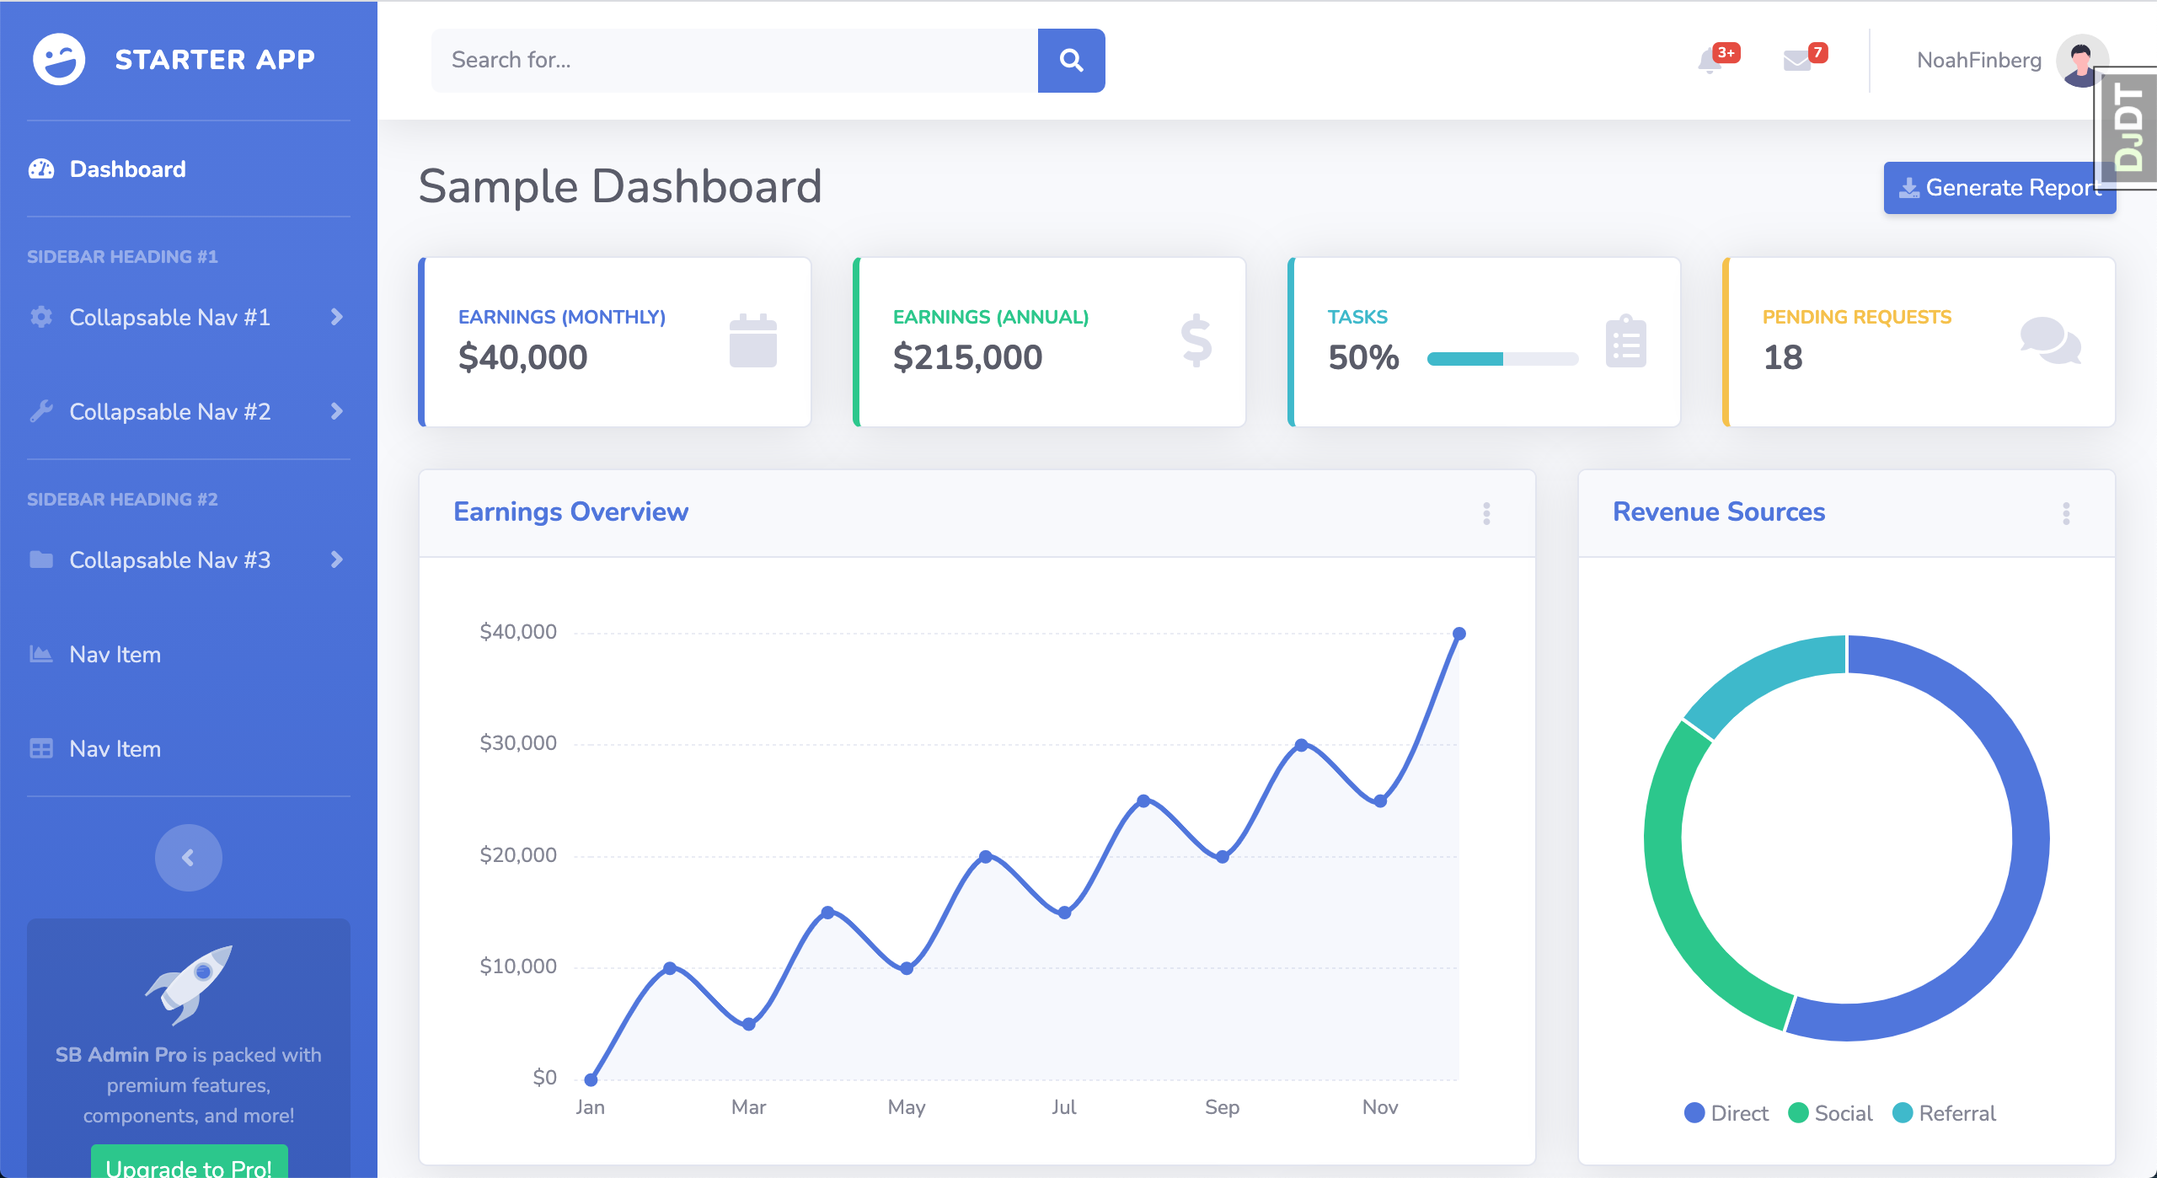
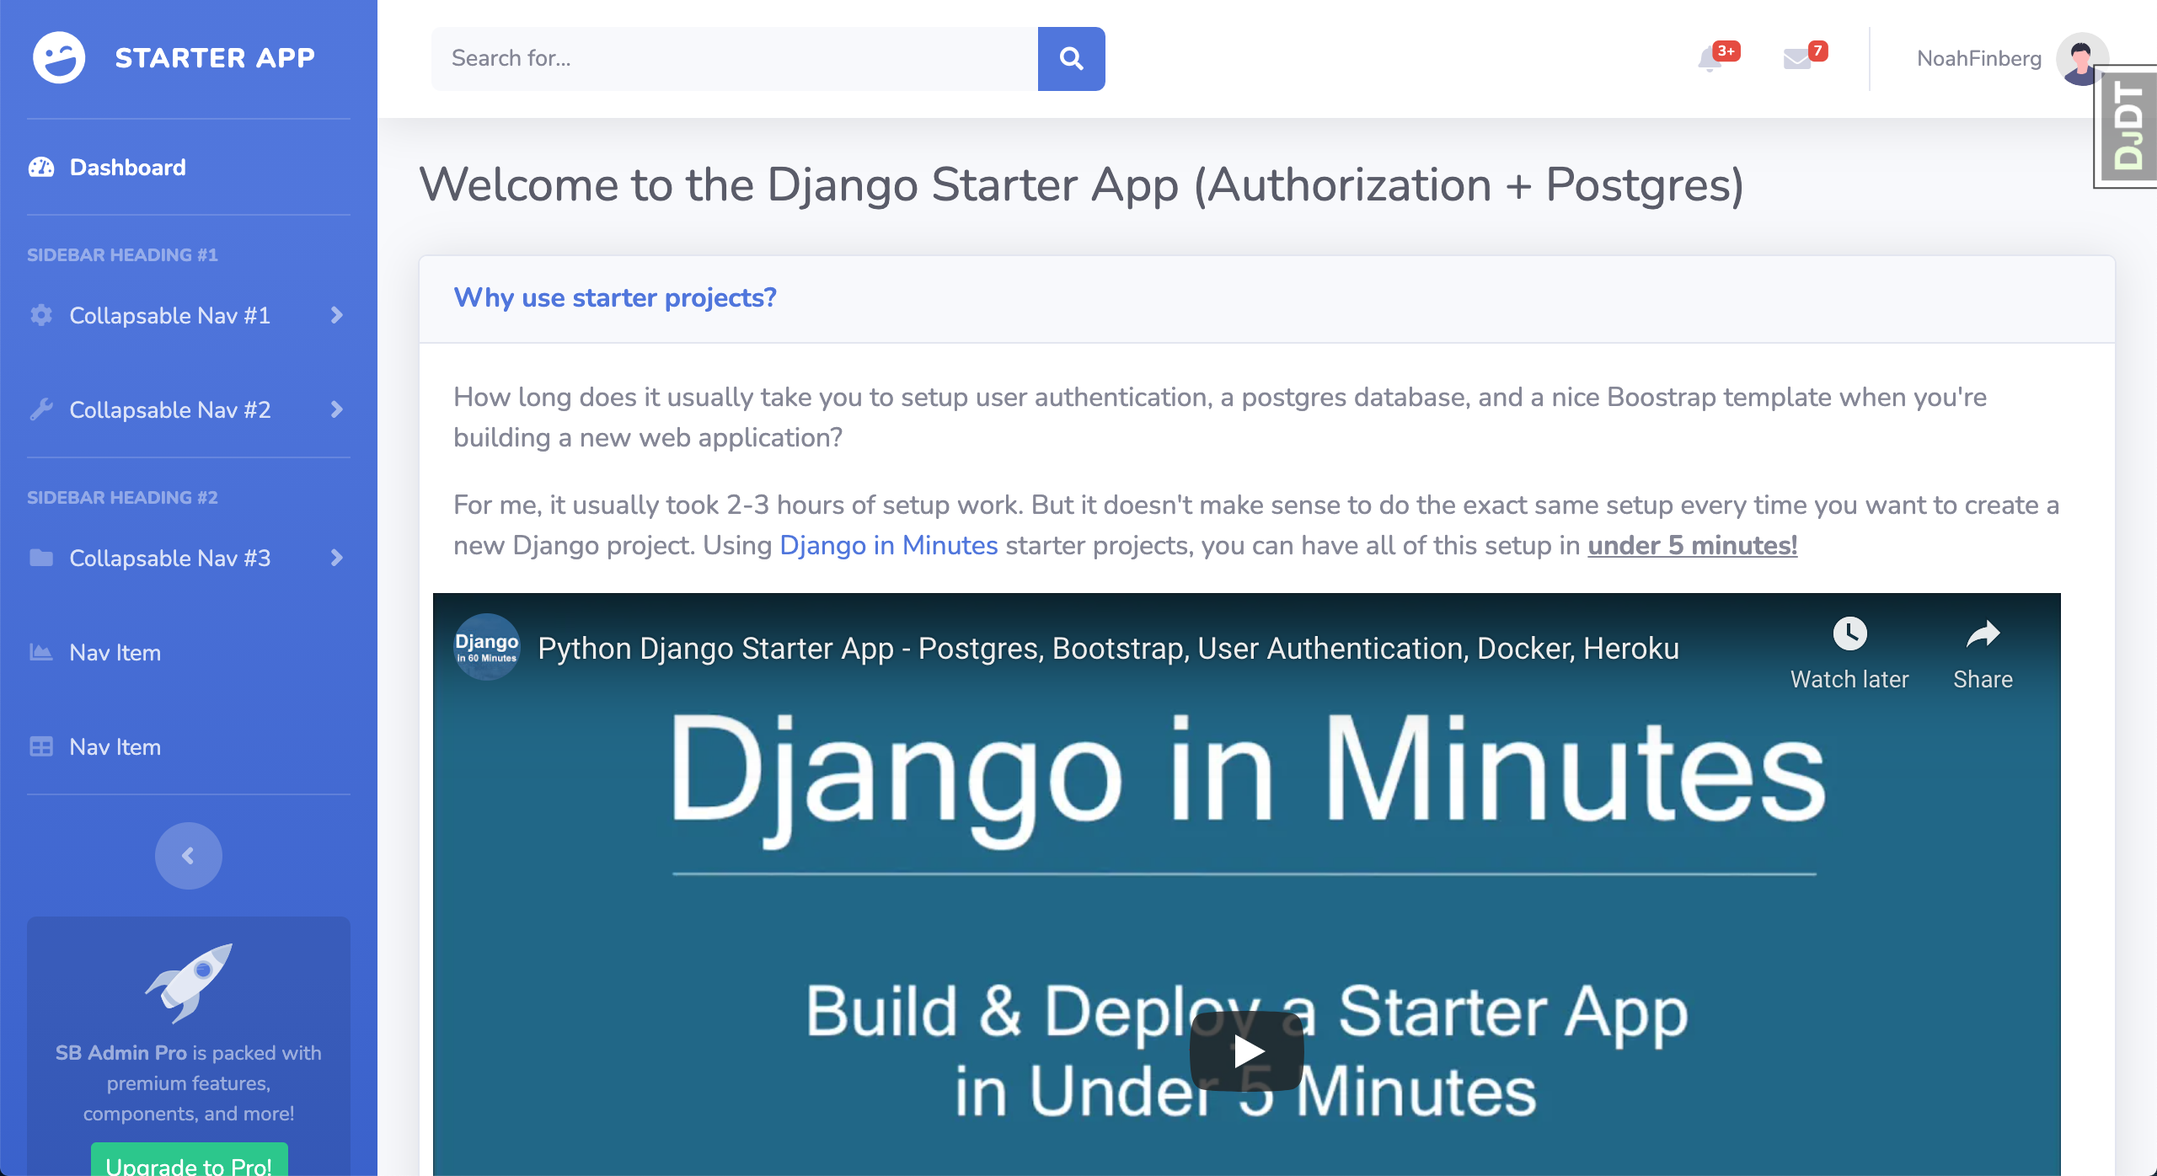
add some explanation  info to the dashboard page.

diff --git a/user/templates/user/index.html b/user/templates/user/index.html
@@ -6,323 +6,42 @@
 
     <!-- Page Heading -->
     <div class="d-sm-flex align-items-center justify-content-between mb-4">
-        <h1 class="h3 mb-0 text-gray-800">Sample Dashboard</h1>
-        <a href="#" class="d-none d-sm-inline-block btn btn-sm btn-primary shadow-sm"><i
-                class="fas fa-download fa-sm text-white-50"></i> Generate Report</a>
+        <h1 class="h3 mb-0 text-gray-800">Welcome to the Django Starter App (Authorization + Postgres)</h1>
     </div>
 
-    <!-- Content Row -->
     <div class="row">
-
-        <!-- Earnings (Monthly) Card Example -->
-        <div class="col-xl-3 col-md-6 mb-4">
-            <div class="card border-left-primary shadow h-100 py-2">
-                <div class="card-body">
-                    <div class="row no-gutters align-items-center">
-                        <div class="col mr-2">
-                            <div class="text-xs font-weight-bold text-primary text-uppercase mb-1">
-                                Earnings (Monthly)</div>
-                            <div class="h5 mb-0 font-weight-bold text-gray-800">$40,000</div>
-                        </div>
-                        <div class="col-auto">
-                            <i class="fas fa-calendar fa-2x text-gray-300"></i>
-                        </div>
-                    </div>
-                </div>
-            </div>
-        </div>
-
-        <!-- Earnings (Monthly) Card Example -->
-        <div class="col-xl-3 col-md-6 mb-4">
-            <div class="card border-left-success shadow h-100 py-2">
-                <div class="card-body">
-                    <div class="row no-gutters align-items-center">
-                        <div class="col mr-2">
-                            <div class="text-xs font-weight-bold text-success text-uppercase mb-1">
-                                Earnings (Annual)</div>
-                            <div class="h5 mb-0 font-weight-bold text-gray-800">$215,000</div>
-                        </div>
-                        <div class="col-auto">
-                            <i class="fas fa-dollar-sign fa-2x text-gray-300"></i>
-                        </div>
-                    </div>
-                </div>
-            </div>
-        </div>
-
-        <!-- Earnings (Monthly) Card Example -->
-        <div class="col-xl-3 col-md-6 mb-4">
-            <div class="card border-left-info shadow h-100 py-2">
-                <div class="card-body">
-                    <div class="row no-gutters align-items-center">
-                        <div class="col mr-2">
-                            <div class="text-xs font-weight-bold text-info text-uppercase mb-1">Tasks
-                            </div>
-                            <div class="row no-gutters align-items-center">
-                                <div class="col-auto">
-                                    <div class="h5 mb-0 mr-3 font-weight-bold text-gray-800">50%</div>
-                                </div>
-                                <div class="col">
-                                    <div class="progress progress-sm mr-2">
-                                        <div class="progress-bar bg-info" role="progressbar"
-                                            style="width: 50%" aria-valuenow="50" aria-valuemin="0"
-                                            aria-valuemax="100"></div>
-                                    </div>
-                                </div>
-                            </div>
-                        </div>
-                        <div class="col-auto">
-                            <i class="fas fa-clipboard-list fa-2x text-gray-300"></i>
-                        </div>
-                    </div>
-                </div>
-            </div>
-        </div>
-
-        <!-- Pending Requests Card Example -->
-        <div class="col-xl-3 col-md-6 mb-4">
-            <div class="card border-left-warning shadow h-100 py-2">
-                <div class="card-body">
-                    <div class="row no-gutters align-items-center">
-                        <div class="col mr-2">
-                            <div class="text-xs font-weight-bold text-warning text-uppercase mb-1">
-                                Pending Requests</div>
-                            <div class="h5 mb-0 font-weight-bold text-gray-800">18</div>
-                        </div>
-                        <div class="col-auto">
-                            <i class="fas fa-comments fa-2x text-gray-300"></i>
-                        </div>
-                    </div>
-                </div>
-            </div>
-        </div>
-    </div>
-
-    <!-- Content Row -->
-
-    <div class="row">
-
-        <!-- Area Chart -->
-        <div class="col-xl-8 col-lg-7">
-            <div class="card shadow mb-4">
-                <!-- Card Header - Dropdown -->
-                <div
-                    class="card-header py-3 d-flex flex-row align-items-center justify-content-between">
-                    <h6 class="m-0 font-weight-bold text-primary">Earnings Overview</h6>
-                    <div class="dropdown no-arrow">
-                        <a class="dropdown-toggle" href="#" role="button" id="dropdownMenuLink"
-                            data-toggle="dropdown" aria-haspopup="true" aria-expanded="false">
-                            <i class="fas fa-ellipsis-v fa-sm fa-fw text-gray-400"></i>
-                        </a>
-                        <div class="dropdown-menu dropdown-menu-right shadow animated--fade-in"
-                            aria-labelledby="dropdownMenuLink">
-                            <div class="dropdown-header">Dropdown Header:</div>
-                            <a class="dropdown-item" href="#">Action</a>
-                            <a class="dropdown-item" href="#">Another action</a>
-                            <div class="dropdown-divider"></div>
-                            <a class="dropdown-item" href="#">Something else here</a>
-                        </div>
-                    </div>
-                </div>
-                <!-- Card Body -->
-                <div class="card-body">
-                    <div class="chart-area">
-                        <canvas id="myAreaChart"></canvas>
-                    </div>
-                </div>
-            </div>
-        </div>
-
-        <!-- Pie Chart -->
-        <div class="col-xl-4 col-lg-5">
-            <div class="card shadow mb-4">
-                <!-- Card Header - Dropdown -->
-                <div
-                    class="card-header py-3 d-flex flex-row align-items-center justify-content-between">
-                    <h6 class="m-0 font-weight-bold text-primary">Revenue Sources</h6>
-                    <div class="dropdown no-arrow">
-                        <a class="dropdown-toggle" href="#" role="button" id="dropdownMenuLink"
-                            data-toggle="dropdown" aria-haspopup="true" aria-expanded="false">
-                            <i class="fas fa-ellipsis-v fa-sm fa-fw text-gray-400"></i>
-                        </a>
-                        <div class="dropdown-menu dropdown-menu-right shadow animated--fade-in"
-                            aria-labelledby="dropdownMenuLink">
-                            <div class="dropdown-header">Dropdown Header:</div>
-                            <a class="dropdown-item" href="#">Action</a>
-                            <a class="dropdown-item" href="#">Another action</a>
-                            <div class="dropdown-divider"></div>
-                            <a class="dropdown-item" href="#">Something else here</a>
-                        </div>
-                    </div>
-                </div>
-                <!-- Card Body -->
-                <div class="card-body">
-                    <div class="chart-pie pt-4 pb-2">
-                        <canvas id="myPieChart"></canvas>
-                    </div>
-                    <div class="mt-4 text-center small">
-                        <span class="mr-2">
-                            <i class="fas fa-circle text-primary"></i> Direct
-                        </span>
-                        <span class="mr-2">
-                            <i class="fas fa-circle text-success"></i> Social
-                        </span>
-                        <span class="mr-2">
-                            <i class="fas fa-circle text-info"></i> Referral
-                        </span>
-                    </div>
-                </div>
-            </div>
-        </div>
-    </div>
-
-    <!-- Content Row -->
-    <div class="row">
-
-        <!-- Content Column -->
-        <div class="col-lg-6 mb-4">
-
-            <!-- Project Card Example -->
-            <div class="card shadow mb-4">
-                <div class="card-header py-3">
-                    <h6 class="m-0 font-weight-bold text-primary">Projects</h6>
-                </div>
-                <div class="card-body">
-                    <h4 class="small font-weight-bold">Server Migration <span
-                            class="float-right">20%</span></h4>
-                    <div class="progress mb-4">
-                        <div class="progress-bar bg-danger" role="progressbar" style="width: 20%"
-                            aria-valuenow="20" aria-valuemin="0" aria-valuemax="100"></div>
-                    </div>
-                    <h4 class="small font-weight-bold">Sales Tracking <span
-                            class="float-right">40%</span></h4>
-                    <div class="progress mb-4">
-                        <div class="progress-bar bg-warning" role="progressbar" style="width: 40%"
-                            aria-valuenow="40" aria-valuemin="0" aria-valuemax="100"></div>
-                    </div>
-                    <h4 class="small font-weight-bold">Customer Database <span
-                            class="float-right">60%</span></h4>
-                    <div class="progress mb-4">
-                        <div class="progress-bar" role="progressbar" style="width: 60%"
-                            aria-valuenow="60" aria-valuemin="0" aria-valuemax="100"></div>
-                    </div>
-                    <h4 class="small font-weight-bold">Payout Details <span
-                            class="float-right">80%</span></h4>
-                    <div class="progress mb-4">
-                        <div class="progress-bar bg-info" role="progressbar" style="width: 80%"
-                            aria-valuenow="80" aria-valuemin="0" aria-valuemax="100"></div>
-                    </div>
-                    <h4 class="small font-weight-bold">Account Setup <span
-                            class="float-right">Complete!</span></h4>
-                    <div class="progress">
-                        <div class="progress-bar bg-success" role="progressbar" style="width: 100%"
-                            aria-valuenow="100" aria-valuemin="0" aria-valuemax="100"></div>
-                    </div>
-                </div>
-            </div>
-
-            <!-- Color System -->
-            <div class="row">
-                <div class="col-lg-6 mb-4">
-                    <div class="card bg-primary text-white shadow">
-                        <div class="card-body">
-                            Primary
-                            <div class="text-white-50 small">#4e73df</div>
-                        </div>
-                    </div>
-                </div>
-                <div class="col-lg-6 mb-4">
-                    <div class="card bg-success text-white shadow">
-                        <div class="card-body">
-                            Success
-                            <div class="text-white-50 small">#1cc88a</div>
-                        </div>
-                    </div>
-                </div>
-                <div class="col-lg-6 mb-4">
-                    <div class="card bg-info text-white shadow">
-                        <div class="card-body">
-                            Info
-                            <div class="text-white-50 small">#36b9cc</div>
-                        </div>
-                    </div>
-                </div>
-                <div class="col-lg-6 mb-4">
-                    <div class="card bg-warning text-white shadow">
-                        <div class="card-body">
-                            Warning
-                            <div class="text-white-50 small">#f6c23e</div>
-                        </div>
-                    </div>
-                </div>
-                <div class="col-lg-6 mb-4">
-                    <div class="card bg-danger text-white shadow">
-                        <div class="card-body">
-                            Danger
-                            <div class="text-white-50 small">#e74a3b</div>
-                        </div>
-                    </div>
-                </div>
-                <div class="col-lg-6 mb-4">
-                    <div class="card bg-secondary text-white shadow">
-                        <div class="card-body">
-                            Secondary
-                            <div class="text-white-50 small">#858796</div>
-                        </div>
-                    </div>
-                </div>
-                <div class="col-lg-6 mb-4">
-                    <div class="card bg-light text-black shadow">
-                        <div class="card-body">
-                            Light
-                            <div class="text-black-50 small">#f8f9fc</div>
-                        </div>
-                    </div>
-                </div>
-                <div class="col-lg-6 mb-4">
-                    <div class="card bg-dark text-white shadow">
-                        <div class="card-body">
-                            Dark
-                            <div class="text-white-50 small">#5a5c69</div>
-                        </div>
-                    </div>
-                </div>
-            </div>
-
-        </div>
-
-        <div class="col-lg-6 mb-4">
+        <div class="col-lg-12 mb-4">
 
             <!-- Illustrations -->
             <div class="card shadow mb-4">
                 <div class="card-header py-3">
-                    <h6 class="m-0 font-weight-bold text-primary">Illustrations</h6>
+                    <h6 class="m-0 font-weight-bold text-primary">Why use starter projects?</h6>
                 </div>
                 <div class="card-body">
-                    <div class="text-center">
-                        <img class="img-fluid px-3 px-sm-4 mt-3 mb-4" style="width: 25rem;"
-                            src="{% static 'img/undraw_posting_photo.svg' %}" alt="">
+                    <p>How long does it usually take you to setup user authentication, a postgres database, and a nice Boostrap template when you're building a new web application?</p>
+                    <p>
+                        For me, it usually took 2-3 hours of setup work. But it doesn't make sense to do the exact same setup every time you want to create a new Django project. Using <a href="https://www.youtube.com/channel/UCeXWf8ttB2Q8-xTmEoTDkZg">Django in Minutes</a> starter projects, you can have all of this setup in <strong><u>under 5 minutes!</u></strong>
+                    </p>
+                    
+                    <!-- Embed Youtube Video -->
+                    <div class="iframe-container row">
+                        <iframe class="responsive-iframe" width="560" height="315" src="https://www.youtube.com/embed/4seIp_kaaWM" frameborder="0" allow="accelerometer; autoplay; clipboard-write; encrypted-media; gyroscope; picture-in-picture" allowfullscreen></iframe>
                     </div>
-                    <p>Add some quality, svg illustrations to your project courtesy of <a
-                            target="_blank" rel="nofollow" href="https://undraw.co/">unDraw</a>, a
-                        constantly updated collection of beautiful svg images that you can use
-                        completely free and without attribution!</p>
-                    <a target="_blank" rel="nofollow" href="https://undraw.co/">Browse Illustrations on
-                        unDraw &rarr;</a>
+
                 </div>
             </div>
 
             <!-- Approach -->
             <div class="card shadow mb-4">
                 <div class="card-header py-3">
-                    <h6 class="m-0 font-weight-bold text-primary">Development Approach</h6>
+                    <h6 class="m-0 font-weight-bold text-primary">If this helps you, please show us some love :)</h6>
                 </div>
                 <div class="card-body">
-                    <p>SB Admin 2 makes extensive use of Bootstrap 4 utility classes in order to reduce
-                        CSS bloat and poor page performance. Custom CSS classes are used to create
-                        custom components and custom utility classes.</p>
-                    <p class="mb-0">Before working with this theme, you should become familiar with the
-                        Bootstrap framework, especially the utility classes.</p>
+                    <ul>
+                        <li>Subscribe to our <a href="https://www.youtube.com/channel/UCeXWf8ttB2Q8-xTmEoTDkZg">YouTube Channel: Django in Minutes</a> - we'll be creating more starter projects!</li>
+                        <li>Like and/or Comment on our <a href="https://youtu.be/4seIp_kaaWM">Tutorial Video</a> - we'd love to hear your thoughts and suggestions!</li>
+                        <li>Star our <a href="https://github.com/NoahFinberg/djangostarterproject">Github Repo.</a></li>
+                    </ul>
                 </div>
             </div>
 

diff --git a/templates/base.html b/templates/base.html
@@ -23,6 +23,9 @@
     <!-- Custom styles for this template-->
     <link href="{% static 'css/sb-admin-2.min.css' %}" rel="stylesheet">
 
+    <!-- Main CS File -->
+    <link href="{% static 'css/main.css' %}" rel="stylesheet">
+
 </head>
 
 <body id="page-top">
@@ -379,7 +382,7 @@
             <footer class="sticky-footer bg-white">
                 <div class="container my-auto">
                     <div class="copyright text-center my-auto">
-                        <span>Copyright &copy; Your Website 2020</span>
+                        <span>Copyright &copy; Django in Minutes 2021</span>
                     </div>
                 </div>
             </footer>

diff --git a/staticfiles/css/main.css b/staticfiles/css/main.css
@@ -1,0 +1,17 @@
+.iframe-container {
+    position: relative;
+    overflow: hidden;
+    width: 100%;
+    padding-top: 56.25%; /* 16:9 Aspect Ratio (divide 9 by 16 = 0.5625) */
+}
+  
+/* Then style the iframe to fit in the container div with full height and width */
+.responsive-iframe {
+    position: absolute;
+    top: 0;
+    left: 0;
+    bottom: 0;
+    right: 0;
+    width: 100%;
+    height: 100%;
+}
